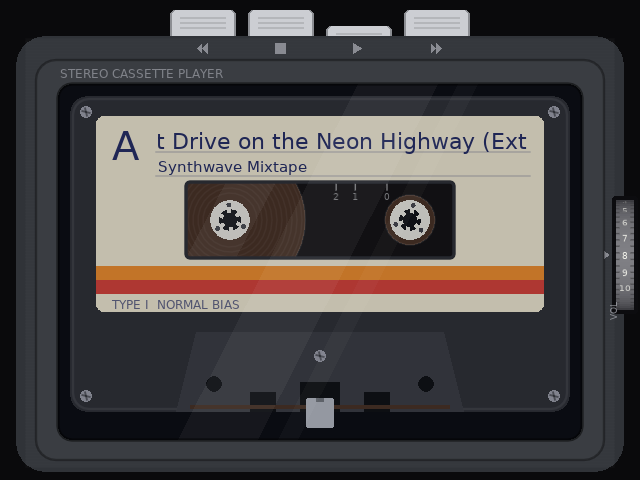
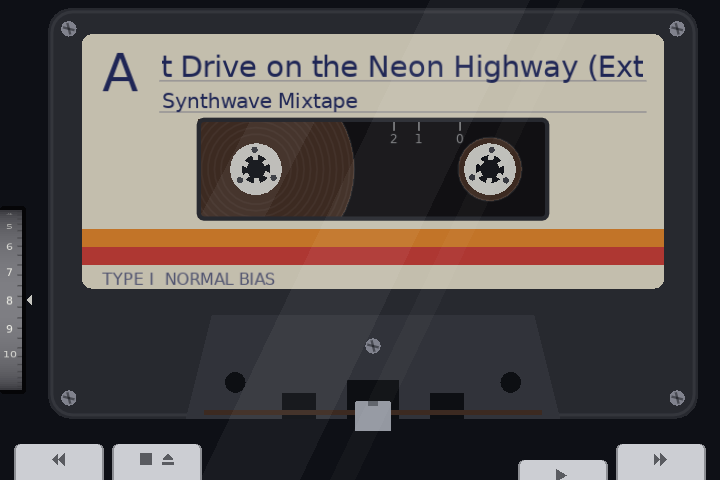
Fit the player to the RG34XXSP screen and controls
- Canvas is now 720x480, the RG34XXSP's native resolution.
- Drop the drawn player body: the device bezel is the body, and the
  cassette is scaled up to fill the screen under the tinted lid glass.
- Transport keys sit on the bottom edge above the shoulder buttons
  (L1 L2 left, R2 R1 right), sinking toward the hinge when pressed.
  The L2 key is marked STOP/EJECT.
- The volume wheel moves to the left edge, next to the volume buttons.

Claude-Session: https://claude.ai/code/session_013h42Ln1xJVHQVHQ8PeAZ2n

diff --git a/README.md b/README.md
@@ -1,7 +1,11 @@
 # Retro Cassette
 
 A music player for [muOS](https://muos.dev) handhelds that shows a cassette
-inside a closed portable player. There are no on-screen icons or readouts. You
+inside a closed portable player. The handheld's own screen bezel acts as the
+player body, so the cassette fills the screen. The transport keys sit on the bottom
+edge, right above the shoulder buttons, and the volume wheel sits on the left
+edge next to the volume buttons. The layout is made for the Anbernic RG34XXSP
+(720×480); other screens get black bars. There are no on-screen icons or readouts. You
 can tell what the player is doing the way you would with a real one: from the
 keys that are pressed down, the turning reels, how much tape is on each reel
 and the play head against the tape.
@@ -17,7 +21,7 @@ Built with [LÖVE](https://love2d.org) 11.x (Lua).
   through the whole album, and the minute marks on the cassette window show the
   time: read it where the edge of the right-hand tape pack sits.
 - **The label** shows the song under the head and the folder (album or artist) name.
-- **The volume wheel** on the right side rolls to the current level, 0–10.
+- **The volume wheel** on the left edge rolls to the current level, 0–10.
 - **The keys stay down** like real ones. PLAY stays down while playing, and FF or
   REW stays down while winding. They pop up with a clunk at the end of the tape.
 
@@ -25,12 +29,13 @@ MP3, OGG, FLAC and WAV are supported.
 
 ## Controls
 
-The four keys on top of the player are the shoulder buttons, in the same order:
+The four keys along the bottom of the screen are the shoulder buttons, in the
+order they sit on the RG34XXSP hinge (L1 L2 on the left, R2 R1 on the right):
 
 | Button | Key | Stopped | Playing |
 | --- | --- | --- | --- |
 | L1 | REW | Rewinds until STOP or the start of the tape | Tap: back to the start of this song (or the previous one in its first 3 s). Hold: review, the tape runs back muted |
-| L2 | STOP | Opens the lid and goes back to the library | Stops; the tape stays where it is, so this is also pause |
+| L2 | STOP/EJECT | Opens the lid and goes back to the library | Stops; the tape stays where it is, so this is also pause |
 | R2 | PLAY | Plays | |
 | R1 | FF | Fast-forwards until STOP or the end of the tape | Tap: wind to the next song (music sensor). Hold: cue, the tape plays fast and high-pitched |
 
